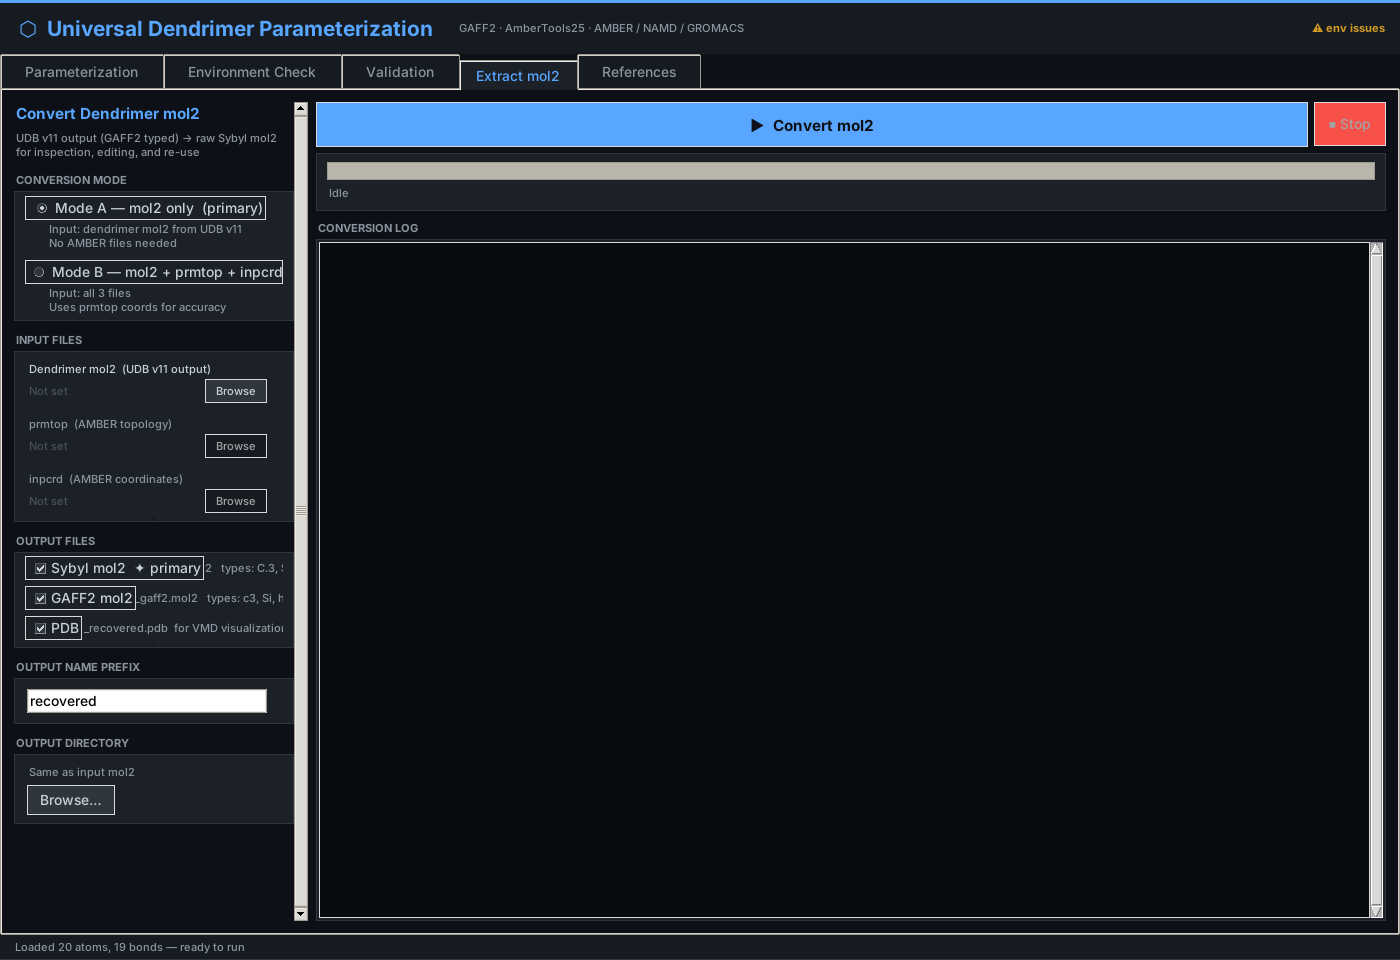
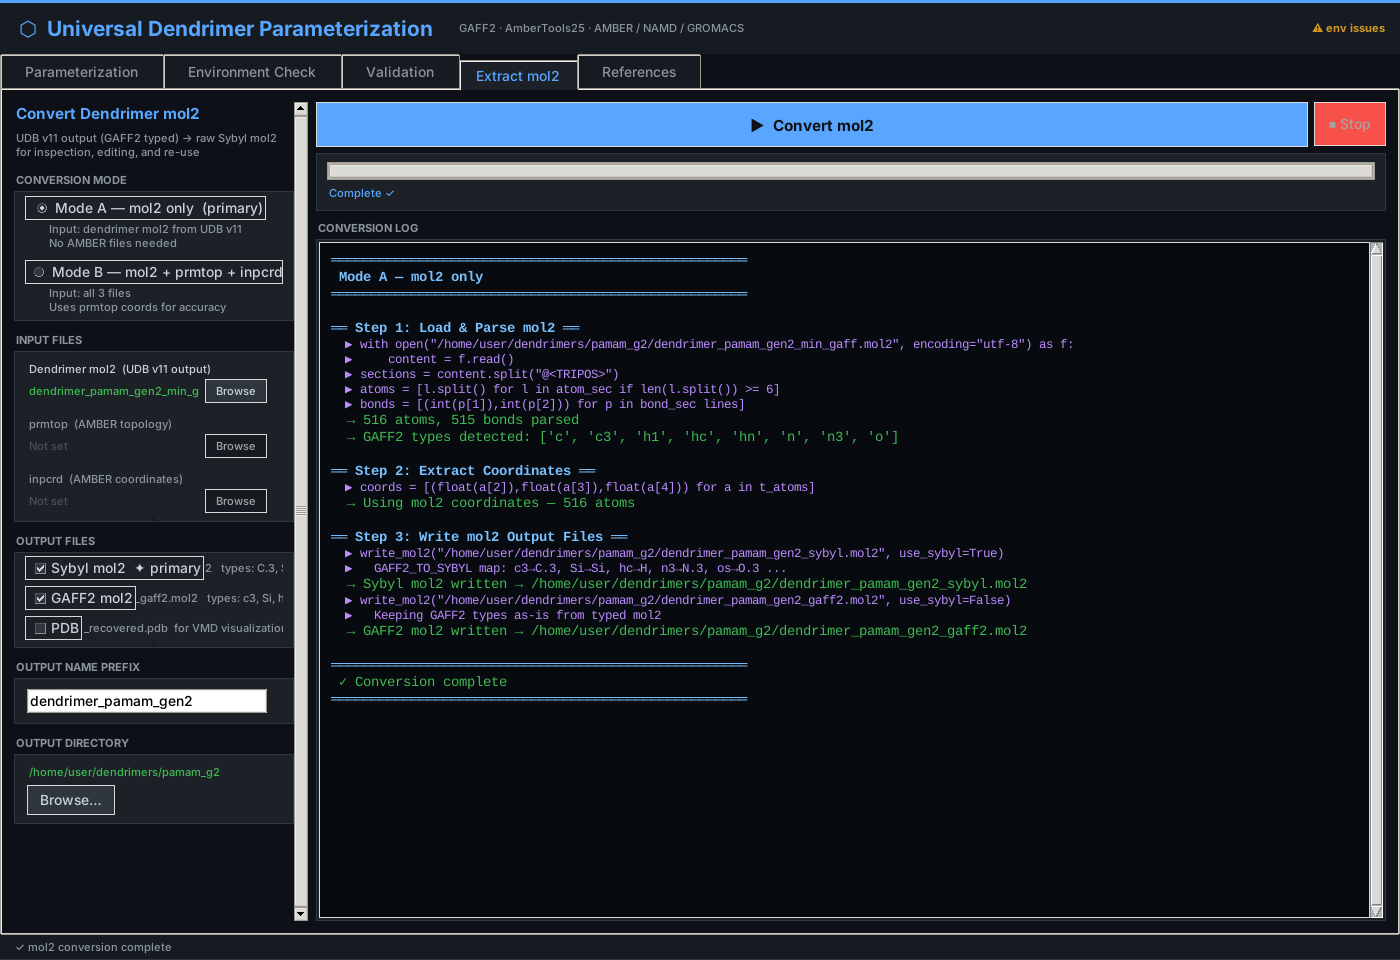
README: two-tool overview with workflow diagram, figures and screenshots
Shorter, visual README: what each tool does, workflow diagram, screenshots
of both GUIs in use, PAMAM G2 example-results figure, quick start, CLI
options in a collapsible section and links to the detailed docs.

Claude-Session: https://claude.ai/code/session_01H3XvgHN1dvKkoakmJQWybj

diff --git a/README.md b/README.md
@@ -1,196 +1,146 @@
 # UDB Characterization Tools
 
-**Version 1.0.0** · Python (Tkinter GUI + command line) · Linux · [MIT License](LICENSE)
+[![CI](https://github.com/HirushaW/UDB-Characterization/actions/workflows/ci.yml/badge.svg)](https://github.com/HirushaW/UDB-Characterization/actions/workflows/ci.yml)
+![Python](https://img.shields.io/badge/python-3.10%2B-3776ab)
+![Platform](https://img.shields.io/badge/platform-Linux-555)
+[![License: MIT](https://img.shields.io/badge/license-MIT-green)](LICENSE)
 
-Two companion programs for the
-[Universal Dendrimer Builder (UDB)](https://github.com/HirushaW/universal-dendrimer-builder):
+**Two companion programs for the [Universal Dendrimer Builder (UDB)](https://github.com/HirushaW/universal-dendrimer-builder):**
+one prepares the molecules UDB builds from, the other measures the dendrimers UDB produces.
 
-| Tool | File | What it does |
+| | Tool | In one sentence |
 |---|---|---|
-| **UDB Characteriser** v1.0 | `udb_characterizer.py` | Characterises dendrimers after UDB has built them (as built, after AMBER minimisation or from MD frames): size, shape, surface, volume, hydrodynamics, back-folding, charge and structure quality. |
-| **Universal Dendrimer Parameterization** v2.0 | `dendrimer_param_gui_v2.py` | Converts MOL2 files between Sybyl and GAFF2 atom types and builds AMBER, NAMD/CHARMM and GROMACS topologies for core and monomer fragments. |
+| 🧪 | **[Parameterization GUI](#1-parameterization-gui--mol2-converter)** · `dendrimer_param_gui_v2.py` | Converts MOL2 files between **Sybyl and GAFF2** atom types and builds **AMBER, NAMD/CHARMM and GROMACS** topologies for dendrimer cores and monomers. |
+| 📐 | **[UDB Characteriser](#2-udb-characteriser)** · `udb_characterizer.py` | Characterises finished dendrimers: **117 structural and physicochemical properties** with quality control and a plain-language interpretation. |
 
-![UDB Characteriser](docs/images/udb_characteriser.png)
+<p align="center">
+  <img src="docs/images/workflow.svg" alt="Workflow: Avogadro → Parameterization GUI → Universal Dendrimer Builder → UDB Characteriser" width="100%">
+</p>
 
 ---
 
-## Where they fit
+## 1. Parameterization GUI · MOL2 converter
 
-```
-Avogadro                 Parameterization GUI         Universal Dendrimer       UDB Characteriser
-core / monomer   ──►   Sybyl ─► GAFF2 MOL2      ──►   Builder: build G1–G10  ──► 117 properties,
-(Sybyl MOL2)           + prmtop / psf / top           + AMBER minimisation      QC and interpretation
-                                                               │
-                                                               ▼
-                                                  Parameterization GUI, Extract mol2:
-                                                  GAFF2 dendrimer ─► Sybyl MOL2 / PDB
-```
+Fragments drawn in Avogadro carry **Sybyl** atom types; UDB and AMBER need **GAFF2**. This
+GUI bridges the two in both directions:
 
-## Features
+- **Sybyl → GAFF2 (before a build).** Types the core or monomer (including Si, P and S for
+  carbosilane and phosphorus dendrimers), runs `parmchk2` and `tleap`, and writes AMBER
+  `.prmtop`/`.inpcrd`, NAMD/CHARMM `.psf`/`.pdb` (ParmEd) and GROMACS `.top`/`.gro` (acpype).
+- **Validation.** Atom/bond counts, unassigned types, charge sum, bond lengths and `frcmod`
+  penalty scores, shown as a checklist.
+- **GAFF2 → Sybyl (after a build).** The *Extract mol2* tab turns a finished UDB dendrimer
+  back into a Sybyl MOL2 (and PDB) for Avogadro, PyMOL, VMD or CGenFF.
 
-### UDB Characteriser
+<p align="center">
+  <img src="docs/images/param_gui_extract_mol2.png" alt="Extract mol2 tab converting a PAMAM G2 dendrimer from GAFF2 to Sybyl types" width="49%">
+  <img src="docs/images/param_gui_parameterization.png" alt="Parameterization tab with a PAMAM monomer loaded" width="49%">
+</p>
+<p align="center"><sub>Left: a PAMAM G2 (516 atoms) converted GAFF2 → Sybyl. Right: a PAMAM monomer ready for GAFF2 parameterization.</sub></p>
 
-- **One file, no other UDB files needed.** GUI by default, headless command line for
-  clusters and scripts (`numpy` and `scipy` only).
-- **Inputs:** MOL2; AMBER `prmtop` + `inpcrd`/`rst7` (ASCII or NetCDF); PDB with a
-  `prmtop`, with bonds copied from a MOL2, or with bonds inferred by distance.
-- **Fragment references:** load the core and monomer used for the build; the terminal
-  element is detected from the monomer and the build is checked against core + monomers.
-- **Properties (117 columns):**
-  - size: Rg (all and heavy atoms), equivalent sphere and end-to-end distances;
-  - shape: asphericity, acylindricity and κ² from the gyration tensor, plus the exact
-    mass-weighted inertia tensor and Ray's asymmetry;
-  - surface and volume: Shrake–Rupley SASA, deterministic grid van der Waals volume,
-    void fraction and density;
-  - hydrodynamics: Kirkwood–Riseman Rh, with diffusion coefficient, sedimentation
-    coefficient and intrinsic viscosity;
-  - back-folding: terminal radial distribution and radial density profiles;
-  - charge: net charge, dipole moment and surface charge density.
-- **Quality control:** connectivity, tree check, bond-length and steric-clash audits, a
-  pass/fail gate (`--strict` drops failures).
-- **Interpretation layer:** a plain-language reading of every group, with each threshold
-  tagged as literature (**[lit]**), tool convention (**[conv]**) or caution (**[!]**).
-- **Batch mode:** characterise a whole folder tree into one CSV.
-- **Outputs:** CSV, a units file for every column, full JSON report, PNG of the 3-D view.
+## 2. UDB Characteriser
 
-Every property, formula and unit: [docs/PROPERTIES.md](docs/PROPERTIES.md).
+Load the structure UDB built (MOL2, AMBER restart or PDB), optionally with the core and
+monomer it was built from, and get:
 
-### Universal Dendrimer Parameterization (MOL2 converter)
-
-- **Sybyl → GAFF2** typing that also handles Si, P and S (carbosilane and phosphorus
-  dendrimers), then `parmchk2` and `tleap` for AMBER `.prmtop`/`.inpcrd`, ParmEd for
-  NAMD/CHARMM `.psf`/`.pdb` and `acpype` for GROMACS `.top`/`.gro`.
-- **Validation:** atom and bond counts, unassigned types, charge sum, bond lengths and
-  `frcmod` penalty scores.
-- **GAFF2 → Sybyl** conversion of finished UDB dendrimers (Extract mol2 tab), from the
-  MOL2 alone or with the AMBER `prmtop`/`inpcrd`, plus PDB output for VMD.
-- Environment check for AmberTools, ParmEd and `acpype`.
-- Families: PAMAM, PPI, Triazine, Carbosilane, Phosphorus, Polyester, Polyglycerol, PLL.
-
-Details and the full type maps: [docs/PARAMETERIZATION_AND_MOL2.md](docs/PARAMETERIZATION_AND_MOL2.md).
-
-## Repository contents
-
-| Path | What it is |
+| Group | Properties |
 |---|---|
-| `udb_characterizer.py` | UDB Characteriser (GUI and command line). |
-| `dendrimer_param_gui_v2.py` | Parameterization GUI and MOL2 converter. |
-| `examples/pamam_g2/` | PAMAM G2 inputs and reference outputs of both tools ([guide](examples/README.md)). |
-| `docs/` | Property reference, parameterization/MOL2 guide and screenshots. |
-| `tests/` | `pytest` suite (also run by GitHub Actions on every push and pull request). |
-| `requirements.txt` | Python packages. |
-| `CHANGELOG.md` · `CITATION.cff` · `LICENSE` · `SECURITY.md` | Changes, how to cite, licence, security policy. |
+| **Size** | Rg (all / heavy atoms), equivalent-sphere radius, end-to-end distances |
+| **Shape** | asphericity, acylindricity, κ²; exact inertia tensor, principal axes, Ray's asymmetry |
+| **Surface & volume** | Shrake–Rupley SASA, grid van der Waals volume, void fraction, density |
+| **Hydrodynamics** | Kirkwood–Riseman Rh → diffusion coefficient, sedimentation, intrinsic viscosity |
+| **Back-folding** | where the terminal groups sit relative to the core |
+| **Charge** | net charge, dipole moment, surface charge density |
+| **Topology & QC** | terminal count vs theory, degree of branching, connectivity, bond and clash audits |
 
-## Requirements
+Every number comes with its unit, and an *interpretation* layer explains what it means,
+tagging each threshold as literature **[lit]**, tool convention **[conv]** or caution **[!]**.
+It runs as a GUI or headless from the command line, on one structure or a whole folder.
 
-- Linux (Ubuntu 20.04 or newer), x86_64; a display for the GUIs
-- Python 3.10 or newer with Tkinter (`sudo apt-get install python3-tk`)
-- `numpy`, `scipy` (both tools); `matplotlib` (Characteriser GUI only)
-- For parameterization: [AmberTools25](https://ambermd.org/AmberTools.php) (`antechamber`,
-  `parmchk2`, `tleap`, `ambpdb`, ParmEd); optionally `acpype` for GROMACS
+<p align="center">
+  <img src="docs/images/udb_characteriser.png" alt="UDB Characteriser showing results for PAMAM G2" width="80%">
+</p>
 
-The Characteriser and Mode A of the MOL2 conversion need only Python.
+**Example output** (PAMAM G2, from [`examples/pamam_g2`](examples/README.md)):
 
-## Installation
+<p align="center">
+  <img src="docs/images/pamam_g2_results.png" alt="PAMAM G2: structure with terminals highlighted, terminal distance histogram, and Rg vs hydrodynamic radius" width="100%">
+</p>
+
+---
+
+## Quick start
 
 ```bash
 git clone https://github.com/HirushaW/UDB-Characterization.git
 cd UDB-Characterization
+pip install -r requirements.txt          # numpy, scipy, matplotlib
 
-# Use the same environment as UDB (AmberTools25), or any Python 3.10+
-conda activate AmberTools25
-pip install -r requirements.txt
+python3 udb_characterizer.py             # Characteriser GUI
+python3 dendrimer_param_gui_v2.py        # Parameterization GUI
 ```
 
-## Usage
-
-### UDB Characteriser — GUI
+Characterise from the command line:
 
 ```bash
-python3 udb_characterizer.py
-```
-
-1. **Fragment references (optional, recommended):** load the core and monomer MOL2 used
-   for the build. The terminal element is picked from the monomer.
-2. **Structure:** load the dendrimer (MOL2, PDB or AMBER restart; add the `prmtop` for
-   PDB/restart files).
-3. **Options:** family and generation (read from the file name if left blank) and the
-   grid spacing for the volume.
-4. **Characterise.** Results appear as summary cards and a grouped table; use
-   **Explain results**, **Export CSV** or **Export JSON**. The **Batch** tab runs a folder.
-
-### UDB Characteriser — command line
-
-```bash
-# one structure, with fragment references and a readable report
 python3 udb_characterizer.py dendrimer_pamam_gen3_min_gaff.mol2 \
     --core core_typed.mol2 --monomer PAMAM_monomer_typed.mol2 --explain
 
-# AMBER minimised structure
-python3 udb_characterizer.py --prmtop dendrimer_pamam_gen3.prmtop \
-    --coords dendrimer_pamam_gen3_min.rst --monomer PAMAM_monomer_typed.mol2
-
-# every structure under a folder, one CSV plus the full JSON report
-python3 udb_characterizer.py -r ./Structures/ --monomer PAMAM_monomer_typed.mol2 \
-    -o all_results.csv --json all_results.json
+python3 udb_characterizer.py -r ./Structures/ --monomer PAMAM_monomer_typed.mol2 -o results.csv
 ```
+
+**Requirements:** Linux, Python 3.10+ with Tkinter (`sudo apt-get install python3-tk`).
+Parameterization additionally needs [AmberTools25](https://ambermd.org/AmberTools.php)
+(and `acpype` for GROMACS). The Characteriser and GAFF2 → Sybyl conversion need only Python.
+
+<details>
+<summary><b>All command-line options</b></summary>
 
 | Option | Default | Meaning |
 |---|---|---|
 | `--core`, `--monomer`, `--terminal` | – | Fragment MOL2 references |
-| `--prmtop`, `--coords` | – | AMBER topology and coordinates |
+| `--prmtop`, `--coords` | – | AMBER topology and coordinates (`.inpcrd`, `.rst7`, NetCDF) |
 | `--bonds-from` | – | MOL2 whose bonds are copied to a PDB with the same atom order |
+| `-r DIR` | – | Characterise every structure under a folder |
 | `--terminal-element` | from monomer | Override the terminal element |
 | `--family`, `--gen` | from file name | Override family and generation |
 | `-o`, `--json` | `udb_post_results.csv` | Output CSV; optional full JSON report |
 | `--grid-spacing` | 0.25 Å | Grid for the van der Waals volume |
 | `--sasa-points`, `--mc-samples` | 960, 100000 | SASA sphere points; Monte Carlo volume samples |
 | `--explain` / `--no-interpret` | – | Print the interpretation / leave it out of the CSV |
-| `--units-row` | – | Put units on line 2 of the CSV (`*_units.csv` is always written) |
+| `--units-row` | – | Units on line 2 of the CSV (`*_units.csv` is always written) |
 | `--no-extended`, `--strict` | – | Skip extended properties; drop structures that fail QC |
 
-### Parameterization GUI and MOL2 conversion
+</details>
 
-```bash
-python3 dendrimer_param_gui_v2.py
+## Documentation
+
+| | |
+|---|---|
+| [Property reference](docs/PROPERTIES.md) | Every Characteriser column: formula, unit and literature source |
+| [Parameterization & MOL2 guide](docs/PARAMETERIZATION_AND_MOL2.md) | Pipeline, GAFF2 typing rules, full GAFF2 ↔ Sybyl type map, validation checks |
+| [Worked example](examples/README.md) | PAMAM G2 inputs and reference outputs of both tools, with the commands |
+| [Changelog](CHANGELOG.md) | What changed in each version |
+
+## Repository layout
+
 ```
-
-- **Sybyl → GAFF2 + topologies:** on the Parameterization tab, load the core or monomer
-  MOL2 from Avogadro, choose the family, fragment, net charge and formats, and press
-  **Run Parameterization** (or **Save Script Only**). Results are checked on the
-  Validation tab.
-- **GAFF2 → Sybyl:** on the Extract mol2 tab, load the UDB dendrimer MOL2 (Mode A) or the
-  MOL2 with its `prmtop` and `inpcrd` (Mode B), tick the outputs and press **Convert mol2**.
-
-### Worked example
-
-[`examples/pamam_g2`](examples/README.md) has a minimised PAMAM G2 with its core and
-monomer, the Characteriser results and the Sybyl conversion, with the commands to
-reproduce them.
-
-## Tests
-
-```bash
-pip install pytest
-python3 -m pytest              # GUI test is skipped without a display
-xvfb-run -a python3 -m pytest  # run everything headless
+├── udb_characterizer.py         UDB Characteriser (GUI + CLI)
+├── dendrimer_param_gui_v2.py    Parameterization GUI / MOL2 converter
+├── examples/pamam_g2/           worked example: inputs and reference outputs
+├── docs/                        property reference, MOL2 guide, figures
+└── tests/                       pytest suite, run by GitHub Actions
 ```
 
 ## Versions and branches
 
-| Branch | Purpose |
-|---|---|
-| `main` | Stable code. Every release is tagged here (`v1.0.0`, `v1.1.0`, …). |
-| `develop` | Ongoing work. Changes go into `develop` and are merged into `main` for the next release. |
-| `release/x.y.z`, `fix/…`, `feature/…` | Short-lived branches merged through pull requests. |
-
-Versions follow [Semantic Versioning](https://semver.org): new features raise the middle
-number (1.1.0), fixes raise the last (1.0.1). See [CHANGELOG.md](CHANGELOG.md).
+`main` holds stable releases, each tagged (`v1.0.0`, …); `develop` holds ongoing work and is
+merged into `main` for each release. Versions follow [Semantic Versioning](https://semver.org).
 
 ## Citation
 
-A paper describing UDB is in preparation. Until it is published, please cite the software
-(see [CITATION.cff](CITATION.cff), or use **Cite this repository** on GitHub):
+A paper describing UDB is in preparation. Until then, please cite the software
+([CITATION.cff](CITATION.cff), or **Cite this repository** on GitHub):
 
 ```bibtex
 @software{walgampaya2026udbtools,
@@ -199,20 +149,13 @@ A paper describing UDB is in preparation. Until it is published, please cite the
              MOL2 Parameterization Companions to the Universal Dendrimer Builder}},
   year    = {2026},
   version = {1.0.0},
-  url     = {https://github.com/HirushaW/UDB-Characterization},
-  note    = {Citation pending peer-reviewed publication}
+  url     = {https://github.com/HirushaW/UDB-Characterization}
 }
 ```
 
-## License
+## License and author
 
-Released under the [MIT License](LICENSE). AmberTools, ParmEd, acpype and the other
-programs these tools call are separate software under their own licences.
-
-## Author
-
-**Hirusha Walgampaya**. Questions and bug reports:
+[MIT License](LICENSE) © Hirusha Walgampaya. AmberTools, ParmEd, acpype and the other
+programs these tools call are separate software under their own licences, and these tools
+are not affiliated with them. Questions and bug reports:
 [open an issue](https://github.com/HirushaW/UDB-Characterization/issues).
-
-These tools are independent and not affiliated with AmberTools, NAMD, GROMACS or
-CHARMM-GUI; they call these packages as external dependencies.

diff --git a/CHANGELOG.md b/CHANGELOG.md
@@ -45,7 +45,8 @@ First public release of the two companion tools for the Universal Dendrimer Buil
 
 ### Also in this release
 - PAMAM G2 worked example with reference outputs of both tools.
-- Property reference (`docs/PROPERTIES.md`) and parameterization / MOL2 guide.
+- Property reference (`docs/PROPERTIES.md`), parameterization / MOL2 guide, workflow
+  diagram, example-results figure and screenshots of both tools.
 - `pytest` suite and GitHub Actions CI (Python 3.10 and 3.12, GUI test under xvfb).
 - MIT License, citation file and security policy.
 
